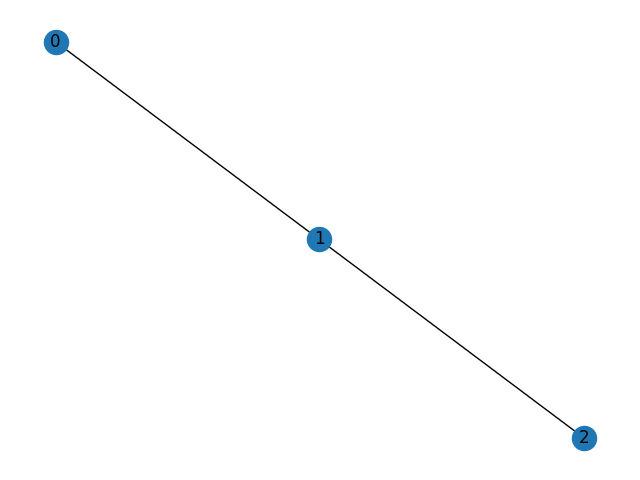
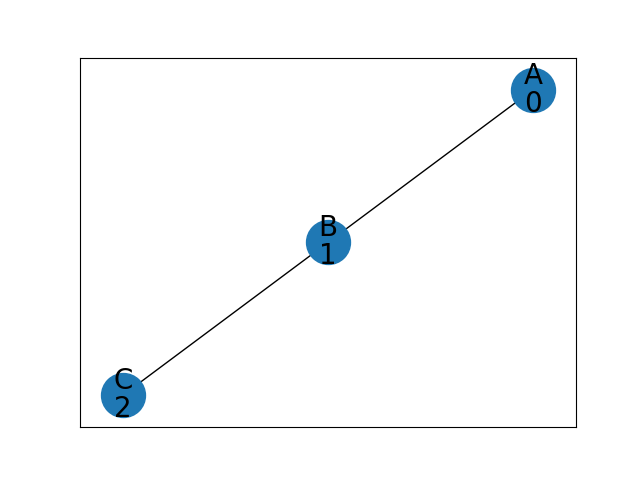
Final Version

diff --git a/tiag/main.py b/tiag/main.py
@@ -1,10 +1,7 @@
 import kivy
 from kivy.app import App
-
 from kivy.uix.screenmanager import ScreenManager,Screen
-
 from kivy.lang import Builder
-
 from kivy.uix.button import Button
 from kivy.uix.label import Label
 from kivy.uix.gridlayout import GridLayout
@@ -16,6 +13,18 @@ from kivy.properties import ObjectProperty
 
 Builder.load_file('my.kv')
 
+options = {
+    "font_size": 10,
+    "verticalalignment": "top"
+
+}
+
+options2 = {
+    "font_size": 20,
+    "verticalalignment": "top",
+    "node_size": 1000,
+}
+
 
 import networkx as nx
 import matplotlib.pyplot as plt
@@ -24,8 +33,6 @@ import copy
 import parserWS
 import parser2
 import SPO
-
-
 
 class GraphView(GridLayout): #screen przedstawiający duży obrazek grafu
     def __init__(self, **kwargs):
@@ -39,18 +46,44 @@ class GraphView(GridLayout): #screen przedstawiający duży obrazek grafu
         self.image.allow_stretch = True
         self.add_widget(self.image)
 
-        self.button = Button(text="Wybór transformacji")
-        self.button.size_hint = (0.1,0.05)
-        self.button.bind(on_press=self.goToChoice)
-        self.add_widget(self.button)
+        self.buttons = GridLayout()
+        self.buttons.cols = 2
+        self.buttons.rows = 1
 
+        self.button = Button(text="Cofnij transformację")
+        self.button.size_hint = (0.3,0.05)
+        self.button.bind(on_press=self.undoTransformation)
+        self.buttons.add_widget(self.button)
+
+        self.button = Button(text="Wybór transformacji")
+        self.button.size_hint = (0.7,0.05)
+        self.button.bind(on_press=self.goToChoice)
+        self.buttons.add_widget(self.button)
+
+        self.buttons.size_hint = (0.1, 0.05)
+        self.add_widget(self.buttons)
 
     def goToChoice(self,instance): #aktywowana przez przycisk, zmienia screen na wybor transformacji
         main_app.screen_menager.current = "Choice"
         main_app.screen_menager.transition.direction = "left"
 
+    def undoTransformation(self,instance):
+        global mainGraph
+        global prevGraph
+        mainGraph = prevGraph
+        plt.close()
+        labelstable = nx.get_node_attributes(mainGraph, 'label')
+        pos = nx.spring_layout(mainGraph)
+        nx.draw_networkx(mainGraph, pos, **options)
+        nx.draw_networkx_labels(mainGraph, pos, labels=labelstable, font_size=10, verticalalignment="bottom")
+        plt.savefig("maingraph.png")
+        self.updateImage()
+        plt.close()
+
+
     def updateImage(self): #uaktualnia obraz grafu po zrobieniu transformacji
         self.image.reload()
+
 
 
 class Choice(Widget):
@@ -59,7 +92,7 @@ class Choice(Widget):
     #zatwierdzić przyciskiem w prawym dolnym rogu
     def __init__(self, **kwargs):
         super().__init__(**kwargs)
-        self.whichTransformation = 0
+        self.whichTransformation = 1
         self.assignement = ""
 
     def goToGraphView(self): #umożliwia podglad grafu podczas wpisywania indeksowania
@@ -79,26 +112,65 @@ class Choice(Widget):
             return graphs[rightGraphID]
 
         global mainGraph
+        global prevGraph
         plt.close()
 
+        if (self.whichTransformation > numOfTransformations):
+            links,isOk = [],False
+            main_app.error.errorType("Wybrano transformację której nie podano w pliku wejściowym")
+        else:
+            links,isOk = parser2.assignmentParser(mainGraph, leftGraph(self.whichTransformation), self.assignement,main_app)
 
-        links = parser2.assignmentParser(mainGraph, leftGraph(self.whichTransformation), self.assignement)
+        if (isOk):
+            prevGraph,mainGraph = SPO.single_pushout(mainGraph, leftGraph(self.whichTransformation), rightGraph(self.whichTransformation), links)
 
-        mainGraph = SPO.single_pushout(mainGraph, leftGraph(self.whichTransformation), rightGraph(self.whichTransformation), links)
+            plt.close()
+            labelstable = nx.get_node_attributes(mainGraph, 'label')
+            pos = nx.spring_layout(mainGraph)
+            nx.draw_networkx(mainGraph, pos, **options)
+            nx.draw_networkx_labels(mainGraph, pos, labels=labelstable, font_size=10, verticalalignment="bottom")
+            plt.savefig("maingraph.png")
 
-        nx.draw(mainGraph, with_labels=True)
-        plt.savefig("maingraph.png")
+            main_app.graph_view.updateImage()
 
-        main_app.graph_view.updateImage()
+            main_app.screen_menager.current = "Graph View"
+            main_app.screen_menager.transition.direction = "left"
 
-        main_app.screen_menager.current = "Graph View"
-        main_app.screen_menager.transition.direction = "left"
+        else:
+            main_app.screen_menager.current = "Error"
+            main_app.screen_menager.transition.direction = "up"
+
+    def errorNoticed(self,errorMessage):
+        main_app.screen_menager.current = "Error"
+        main_app.error.errorType(errorMessage)
 
     def setWhichTransformation(self,x):
         self.whichTransformation = x
 
     def setAssignement(self,x):
         self.assignement = x
+
+
+
+class Error(GridLayout):
+    def __init__(self, **kwargs):
+        super().__init__(**kwargs)
+        self.cols = 1
+        self.size_hint = (0.99, 0.99)
+        self.pos_hint = {"center_x": 0.5, "center_y": 0.5}
+
+        self.label = Label(text="Wystąpił błąd: ")
+        self.add_widget(self.label)
+        self.button = Button(text="Powrót")
+        self.button.bind(on_press=self.goToChoice)
+        self.add_widget(self.button)
+
+    def errorType(self,message):
+        self.label.text="Wystapił błąd: " + message
+
+    def goToChoice(self, instance):
+        main_app.screen_menager.current = "Choice"
+        main_app.screen_menager.transition.direction = "down"
 
 
 class MyApp(App):
@@ -112,6 +184,11 @@ class MyApp(App):
         screen.add_widget(self.graph_view)
         self.screen_menager.add_widget(screen)
 
+        self.error = Error()
+        screen = Screen(name="Error")
+        screen.add_widget(self.error)
+        self.screen_menager.add_widget(screen)
+
         self.choice = Choice()
         screen = Screen(name="Choice")
         screen.add_widget(self.choice)
@@ -123,25 +200,41 @@ class MyApp(App):
 if __name__ == '__main__':
     global graphs
     global mainGraph
-    filepath = "ex1.txt"
+    global prevGraph
+    global numOfTransformations
+    filepath = "ex3.txt"
 
     graphs = parserWS.creating_output_list(filepath)
     mainGraph = graphs[0]
+    prevGraph = copy.deepcopy(mainGraph)
+    numOfTransformations = (len(graphs) - 1)/2
 
-    options = {
-        'node_size': 100
-    }
-
-    nx.draw(mainGraph, with_labels=True)
+    labelstable = nx.get_node_attributes(mainGraph,'label')
+    pos = nx.spring_layout(mainGraph)
+    nx.draw_networkx(mainGraph, pos, **options)
+    nx.draw_networkx_labels(mainGraph, pos, labels=labelstable, font_size=10, verticalalignment="bottom")
+    # plt.axis("off")
     plt.savefig("maingraph.png")
 
     for i in range(1, len(graphs)):
         plt.close()
-        nx.draw(graphs[i], with_labels=True)
+
+        labelstable = nx.get_node_attributes(graphs[i], 'label')
+        pos = nx.spring_layout(graphs[i])
+        nx.draw_networkx(graphs[i], pos, **options2)
+        nx.draw_networkx_labels(graphs[i], pos, labels=labelstable, font_size=20, verticalalignment="bottom")
         if i % 2 == 0:
             plt.savefig("transformacja" + str(int(i/2)) + ".png")
         else:
             plt.savefig("transformacja" + str(int(i/2 + 1)) + "L.png")
+
+    plt.close()
+    for i in range(1,13):
+        if i > len(graphs)-1:
+            if i % 2 == 0:
+                plt.savefig("transformacja" + str(int(i / 2)) + ".png")
+            else:
+                plt.savefig("transformacja" + str(int(i / 2 + 1)) + "L.png")
 
 
     plt.close()

diff --git a/tiag/parser2.py b/tiag/parser2.py
@@ -1,5 +1,7 @@
 import networkx as nx
-
+import kivy
+from kivy.app import App
+from kivy.uix.screenmanager import ScreenManager,Screen
 
 # funkcja bierze główny graf, graf lewej strony produkcji i stringa z przyporządkowaniem
 #
@@ -8,36 +10,42 @@ import networkx as nx
 # done - zmienić input(tak, żeby funkcja przyjmowała dane w formacie np. "(0,3),(1,2),(2,5)" - lewa liczba z głównego grafu, prawa z L)
 # done - zmieniam output, żeby pasował do funkcji SPO(funkcja musi zwracać listę krotek, gdzie (a, b) oznacza, ze wierzcholek a w G odpowiada b w L)
 
-def assignmentParser(mainGraph, leftGraph, assignment):
+
+def assignmentParser(mainGraph, leftGraph, assignment,main_app):
     map1 = map(int, assignment.replace('(', '').replace(')', '').split(','))
     vertList = list(map1)
 
     y = {}
     for i in range(0, len(vertList), 2):
         if vertList[i + 1] in y or vertList[i] in y.values():
-            errorHandler("Każdy wierzchołek musi być przyporządkowany do dokładnie jednego wierzchołka")
-            return None
+            errorHandler("Każdy wierzchołek musi być przyporządkowany do dokładnie jednego wierzchołka",main_app)
+            return [],False
         y[vertList[i + 1]] = vertList[i]
 
     if len(y) != leftGraph.number_of_nodes():
-        errorHandler("Przyporządkowanie niezgodne z liczbą wierzchołków grafu lewej strony produkcji")
-        return None
+        errorHandler("Przyporządkowanie niezgodne z liczbą wierzchołków grafu lewej strony produkcji",main_app)
+        isOk = False
+        return [],False
 
     for n in y.keys():
         if not leftGraph.has_node(n):
-            errorHandler("Błędne przyporządkowanie (wierzchołek nie istnieje w grafie lewej strony produkcji)")
-            return None
+            errorHandler("Błędne przyporządkowanie (wierzchołek nie istnieje w grafie lewej strony produkcji)",main_app)
+            isOk = False
+            return [],False
         if not mainGraph.has_node(y[n]):
-            errorHandler("Błędne przyporządkowanie (wierzchołek nie istnieje w grafie głównym)")
-            return None
+            errorHandler("Błędne przyporządkowanie (wierzchołek nie istnieje w grafie głównym)",main_app)
+            isOk = False
+            return [],False
         if leftGraph.nodes[n]['label'] != mainGraph.nodes[y[n]]['label']:
-            errorHandler("Błędne przyporządkowanie (niezgodne etykiety wierzchołków)")
-            return None
+            errorHandler("Błędne przyporządkowanie (niezgodne etykiety wierzchołków)",main_app)
+            isOk = False
+            return [],False
 
     for edge in leftGraph.edges:
         if not mainGraph.has_edge(y[edge[0]], y[edge[1]]):
-            errorHandler("Błędne przyporządkowanie (krawędź nie istnieje w głównym grafie)")
-            return None
+            errorHandler("Błędne przyporządkowanie (krawędź nie istnieje w głównym grafie)",main_app)
+            isOk = False
+            return [],False
 
     print("Jest OK")
 
@@ -45,12 +53,12 @@ def assignmentParser(mainGraph, leftGraph, assignment):
     for x, y in y.items():
         assignment_tuples.append((y, x))
 
-    return assignment_tuples
+    return assignment_tuples,True
 
 
-def errorHandler(errorMessage):
-    print(errorMessage)
-
+def errorHandler(errorMessage,main_app):
+    main_app.choice.errorNoticed(errorMessage)
+    # print(errorMessage)
     return
 
 
@@ -77,5 +85,4 @@ leftGraph.add_edge(1, 2)
 leftGraph.add_edge(2, 3)
 
 assignment = "(1,0),(3,2),(2,1),(4,3)"
-assignmentParser(mainGraph, leftGraph, assignment)
-# działa jako tako
+# assignmentParser(mainGraph, leftGraph, assignment,main_app)

diff --git a/tiag/parserWS.py b/tiag/parserWS.py
@@ -1,13 +1,14 @@
 import networkx as nx
 import matplotlib.pyplot as plt
 
-filepath = "ex2.txt"  # nazwa ścieżki, trzeba zdecydować jak będzię ona wprowadzana
+
 # w pliku wejsciowym dwa kolejne wiersze opisują graf
 # pierwszy zawiera etykiety wypisane po kolei odzielone ';'
 # drugi zawiera krotki oddzielone ';' , reprezentujące krawędzie
 
 def creating_graph(list_nodes,list_edges):
     labels = list_nodes.split(";")
+    labels[-1] = labels[-1][:len(labels[-1])-1]
     G = nx.Graph()
     for i in range(len(labels)):
         G.add_node(i, label=labels[i])
